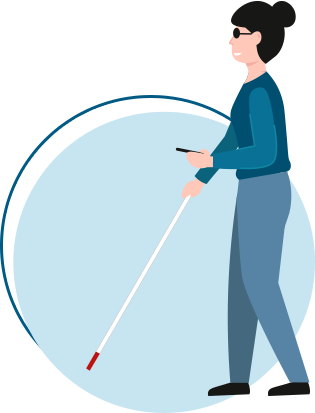
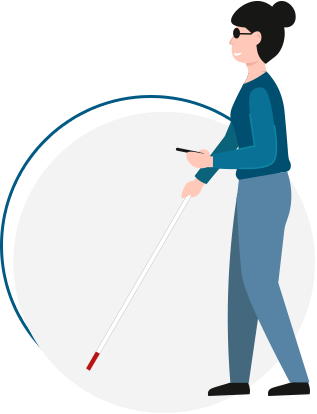
client edits

diff --git a/index.html b/index.html
@@ -31,7 +31,7 @@
               <li><a href="#trustees">Board of Trustees</a></li>
               <li><a href="#visionaries">The Visionaries</a></li>
               <li><a href="#leadership">CSC Leadership</a></li>
-              <li><a href="#financials">Financial Update</a></li>
+              <li><a href="#financials">2020 Financials</a></li>
             </ul>
           </nav>
         </div>
@@ -81,7 +81,7 @@
               <li><a href="#trustees">Board of Trustees</a></li>
               <li><a href="#visionaries">The Visionaries</a></li>
               <li><a href="#leadership">CSC Leadership</a></li>
-              <li><a href="#financials">Financial Update</a></li>
+              <li><a href="#financials">2020 Financials</a></li>
             </ul>
 			</nav>
 		</div>
@@ -336,25 +336,25 @@
     <h4 class="mb-4">Donor Groups:</h4>
     <div class="row">
       <div class="col-md-4 mb-4">
-        <div class="border p-4 h-100">
+        <div class="border p-4 h-100 bg-ltgray">
           <h5><a href="#" class="arrow-right">The Foresight Society</a></h5>
           <p>Established to honor all individuals who have made the ultimate commitment of an endowment gift, established a life income plan or made provisions in their estate plans to benefit Cleveland Sight Center.</p>
         </div>
       </div>
       <div class="col-md-4 mb-4">
-        <div class="border p-4 h-100">
+        <div class="border p-4 h-100 bg-ltgray">
           <h5><a href="#" class="arrow-right">The Champions’ Society</a></h5>
           <p>Members have given gifts totaling $5,000 or more in 2020.</p>
         </div>
       </div>
       <div class="col-md-4 mb-4">
-        <div class="border p-4 h-100">
+        <div class="border p-4 h-100 bg-ltgray">
           <h5><a href="#" class="arrow-right">The Leaders’ Society</a></h5>
           <p>Members have given $2,500 to $4,999 in 2020.</p>
         </div>
       </div>
     </div>
-    <div class="p-4 text-center border">
+    <div class="p-4 text-center border bg-ltgray">
       <p>To view the donor and volunteer honor rolls visit <a href="#">our annual report page</a>.</p>
       <p>To learn more about available volunteer opportunities visit <a href="#">the volunteer page</a>. </p>
       <p>To make a donation visit <a href="#">our donate page</a>.</p>
@@ -567,7 +567,7 @@
     <div class="row align-items-center">
       <div class="col-md-3 text-center mb-4"><img src="assets/images/logo-rev.png" alt="CSC Logo 2-color"/></div>
       <div class="col-md-9 text-center text-md-right">
-        <div><a href="#" class="text-rev arrow-right">Find Out How to Donate</a></div>
+        <div><a href="#" class="text-rev arrow-right">Continue Your Support</a></div>
       </div>
     </div>
   </div>

diff --git a/assets/css/style.css b/assets/css/style.css
@@ -10,7 +10,7 @@ h1,h2,h3,h4,h5,h6 {
 	color: #015a84;
 }
 h1 {
-	font-size: 3.25rem;
+	font-size: 3.5rem;
 	margin-bottom: 3rem;
 }
 h2 {
@@ -245,6 +245,9 @@ hr.divider {
 	border-bottom: 1rem solid #e2e4e5;
 	max-width: 50vw;
 	
+}
+.bg-ltgray {
+    background-color: #f3f3f4;
 }
 .icon-container {
 	min-width: 118px;
